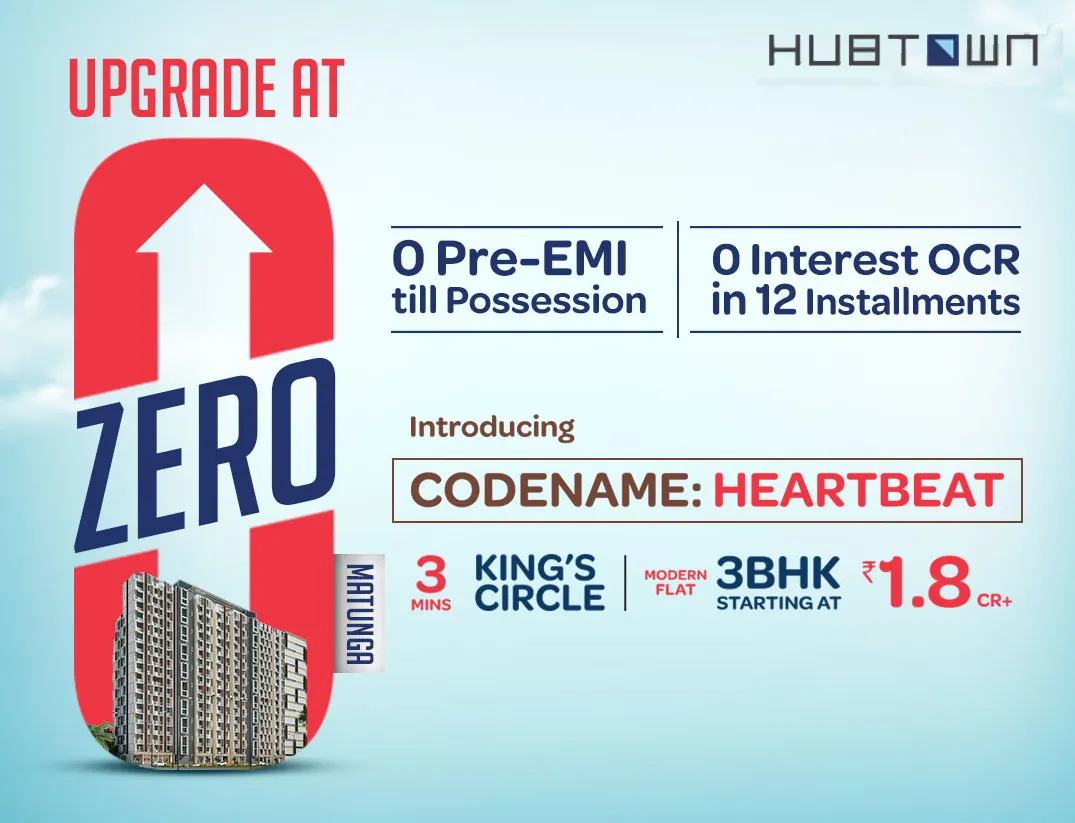
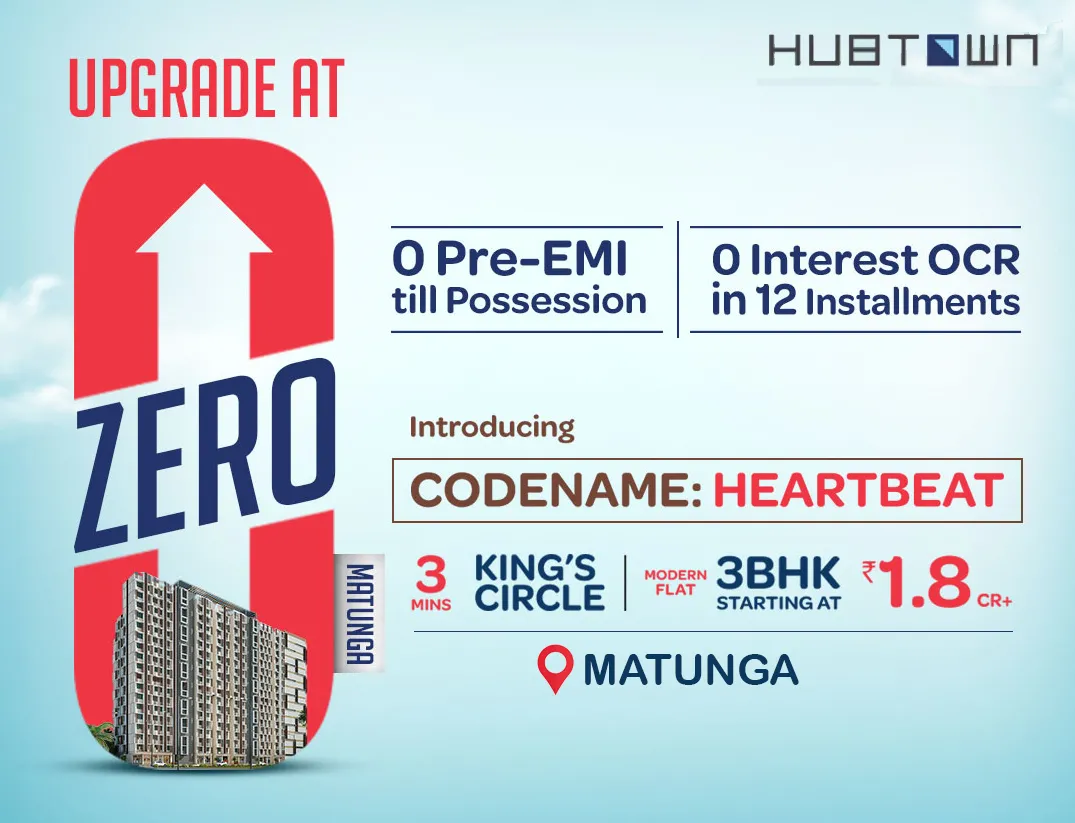
Image for Mobile Updated. Meta Title updated

Changed region(s): [[0.4912, 0.7594, 0.7367, 0.8505]]

diff --git a/projects/hubtown/harmony/response.html b/projects/hubtown/harmony/response.html
@@ -42,7 +42,7 @@
    <!-- Required meta tags -->
    <meta charset="UTF-8" />
    <meta name="viewport" content="width=device-width, initial-scale=1, shrink-to-fit=no">
-   <title>2 & 3 BHK Homes in Dadar - Hubtown Harmony</title>
+   <title>3 BHK Homes in Matunga - Hubtown Harmony</title>
 
    <!-- Required meta tags -->
    <meta charset="UTF-8" />

diff --git a/projects/hubtown/harmony/index.html b/projects/hubtown/harmony/index.html
@@ -40,7 +40,7 @@
    <!-- <link rel="shortcut icon" href="favicon.ico" type="image/x-icon"> -->
 
    <meta name="viewport" content="width=device-width, initial-scale=1, shrink-to-fit=no">
-   <title>2 & 3 BHK Homes in Dadar - Hubtown Harmony</title>
+   <title>3 BHK Homes in Matunga - Hubtown Harmony</title>
 
    <!-- Bootstrap CSS -->
 
